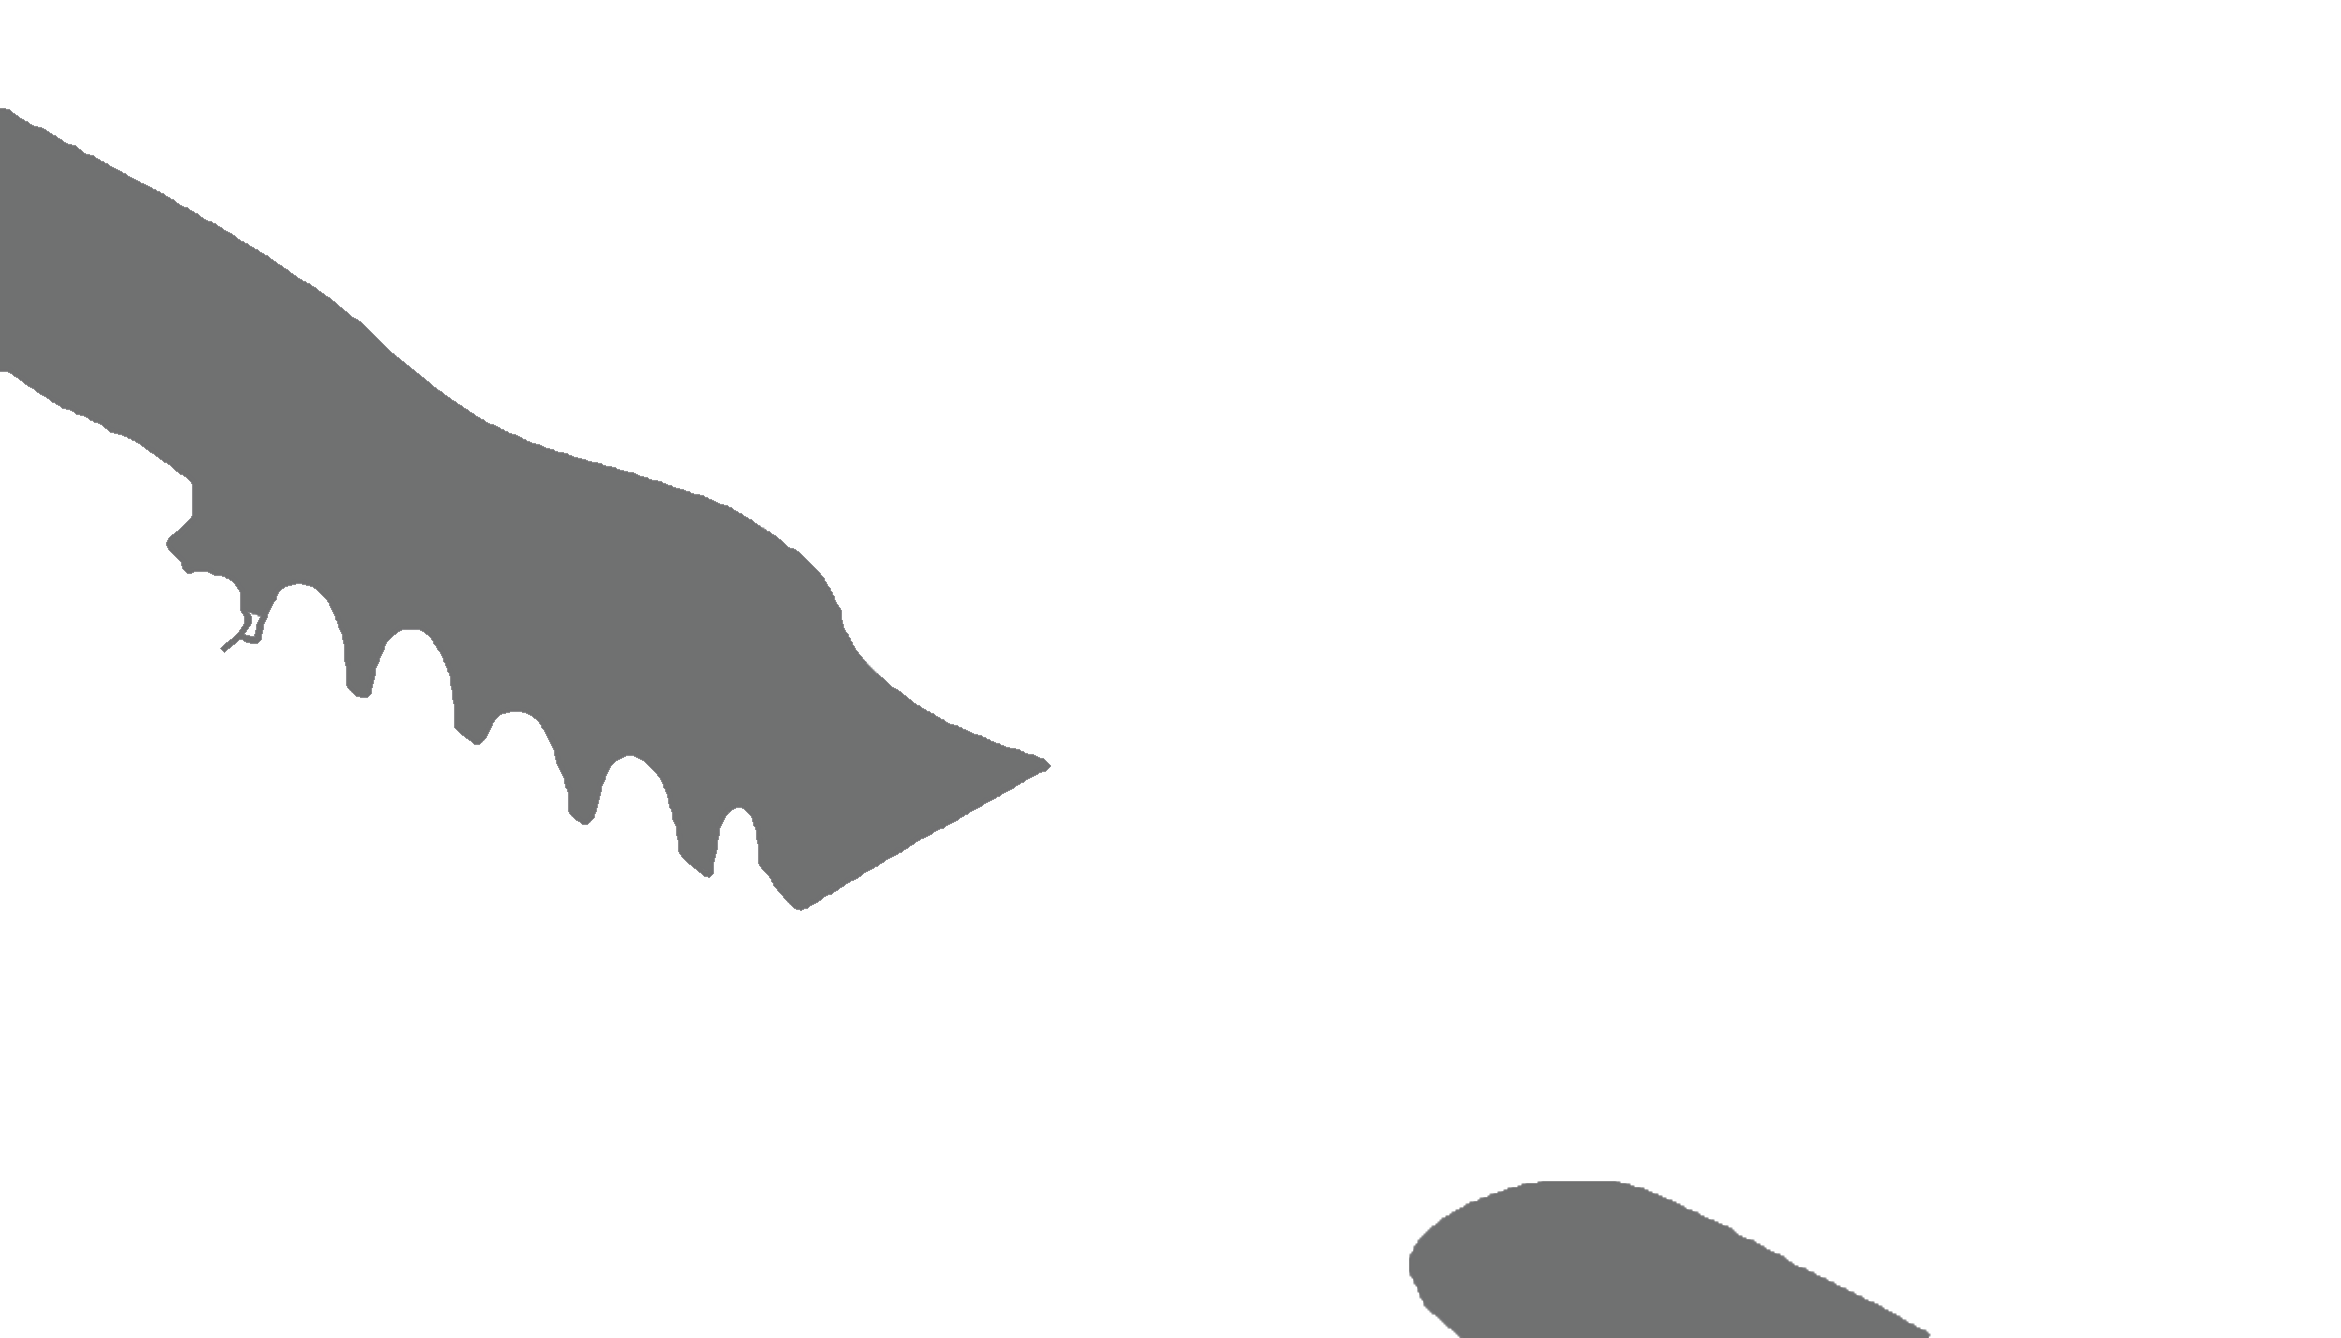
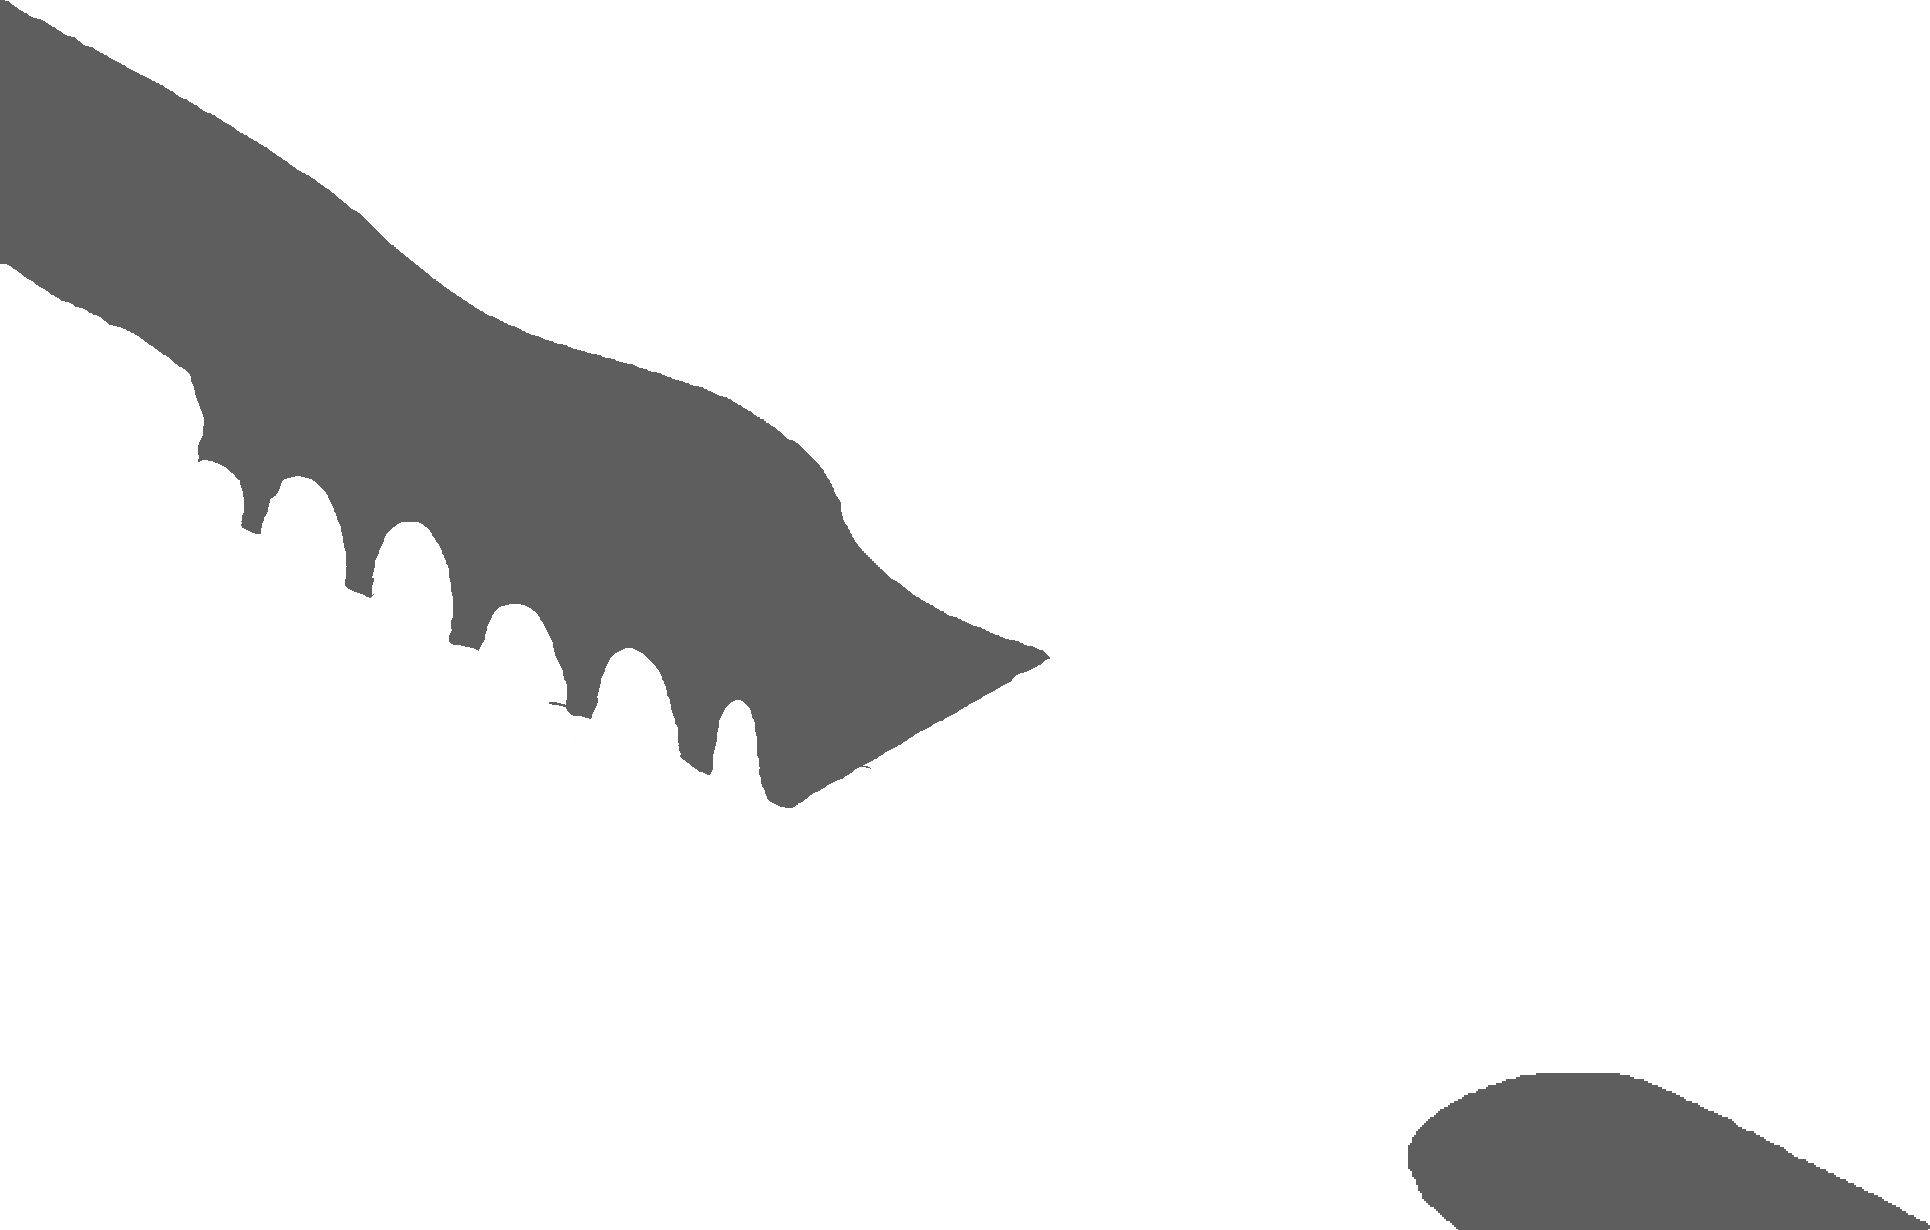
design: 마을 배경, 오염된 강 이미지 수정

Changed region(s): [[0.0, 0.0, 0.5596, 0.6797], [0.5907, 0.865, 1.0, 1.0]]

diff --git a/FrontEnd/src/pages/town/Town.tsx b/FrontEnd/src/pages/town/Town.tsx
@@ -33,44 +33,6 @@ const Town = () => {
   // Zustand 스토어에서 인프라 상태 가져오기
   const infraStatus = useTownStore((state) => state.infraStatus);
 
-  // // [수정] 페이지 로드 시 API 응답에서 인프라 상태 초기화 로직 추가
-  // useEffect(() => {
-  //   if (townEventsData?.townStatus) {
-  //     // 활성화된 이벤트id 필터링
-  //     const activeEventIds = townEventsData.townStatus
-  //       .filter((event) => event.isActive)
-  //       .map((event) => event.infraEventId);
-
-  //     // 스토어에 활성화된 이벤트 설정
-  //     setActiveEvents(activeEventIds);
-
-  //     // [수정] 각 인프라 상태(clean/polluted) 설정
-  //     townEventsData.townStatus.forEach((event) => {
-  //       useTownStore.getState().setInfraStatus(event.ecoType, event.isClean);
-  //     });
-  //   }
-  // }, [townEventsData, setActiveEvents]);
-
-  // // useEffect를 사용하여 데이터 변경 시 마을 이름 업데이트
-  // useEffect(() => {
-  //   if (townEventsData?.townName) {
-  //     useTownStore.getState().setTownName(townEventsData.townName);
-  //   }
-  // }, [townEventsData]);
-
-  // // 마을 접속 시(페이지 로드 시) 이벤트 목록 조회 및 상태 업데이트
-  // useEffect(() => {
-  //   if (townEventsData?.townStatus) {
-  //     // 활성화된 이벤트id 필터링
-  //     const activeEventIds = townEventsData.townStatus
-  //       .filter((event) => event.isActive)
-  //       .map((event) => event.infraEventId);
-
-  //     // 스토어에 활성화된 이벤트 설정
-  //     setActiveEvents(activeEventIds);
-  //   }
-  // }, [townEventsData, setActiveEvents]);
-
   // 각 인프라에 해당 이벤트ID 전달하는 함수
   const getInfraEventId = (ecoType: string) => {
     if (!townEventsData?.townStatus) return undefined; // undefined 처리가 맞을까?
@@ -139,6 +101,7 @@ const Town = () => {
                 src={pollutedImg}
                 alt='오염된 강물'
                 className='absolute top-0 left-0 max-w-full max-h-screen object-contain z-10 pointer-events-none'
+                // className='absolute inset-0 w-full h-full object-contain z-10 pointer-events-none'
               />
             )}
             {/* 공장 */}

diff --git a/FrontEnd/dev-dist/sw.js b/FrontEnd/dev-dist/sw.js
@@ -82,7 +82,7 @@ define(['./workbox-78d1d747'], (function (workbox) { 'use strict';
     "revision": "3ca0b8505b4bec776b69afdba2768812"
   }, {
     "url": "index.html",
-    "revision": "0.rqrep5f24m8"
+    "revision": "0.ijenn99pcgg"
   }], {});
   workbox.cleanupOutdatedCaches();
   workbox.registerRoute(new workbox.NavigationRoute(workbox.createHandlerBoundToURL("index.html"), {

diff --git a/FrontEnd/src/components/toast/Toast.tsx b/FrontEnd/src/components/toast/Toast.tsx
@@ -50,7 +50,7 @@ const Toast =
       <div className={className}>
         <Button onClick={handleClick}>{buttonText}</Button>
         {/* ToastContainer가 App 컴포넌트에 이미 포함되어 있다면 아래 줄은 제거 */}
-        <ToastContainer />
+        {/* <ToastContainer /> */}
       </div>
     );
   };
